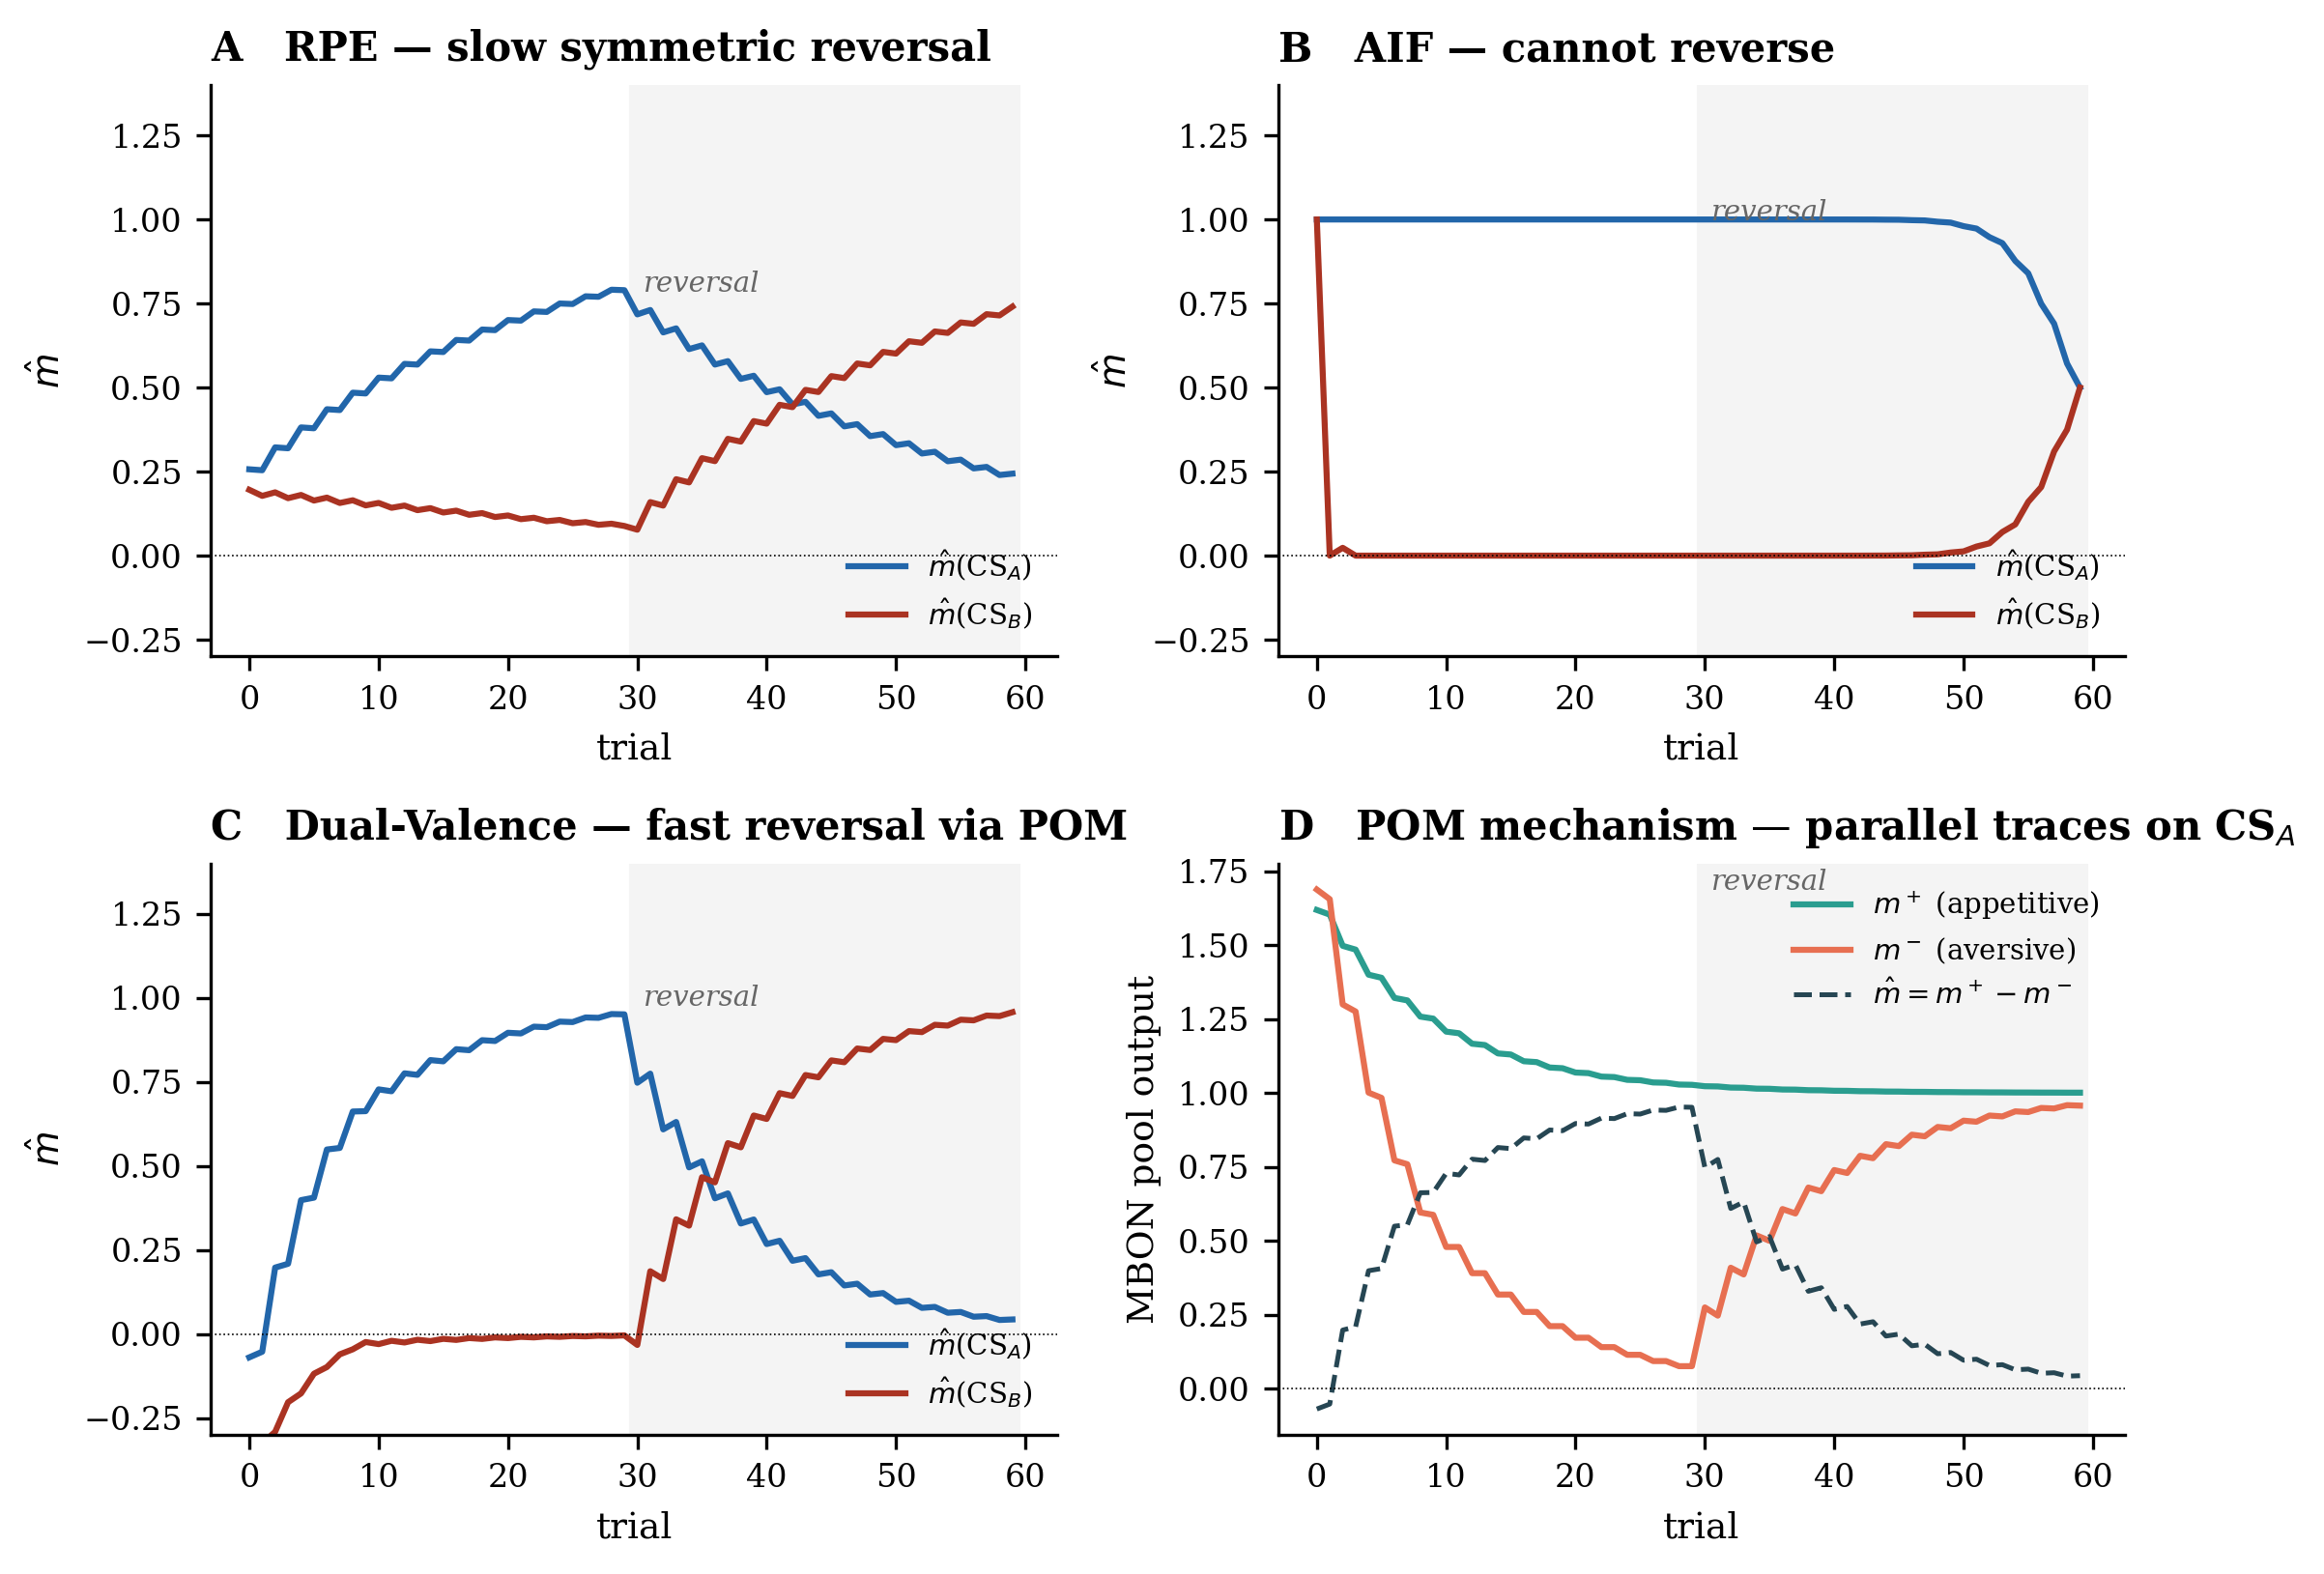
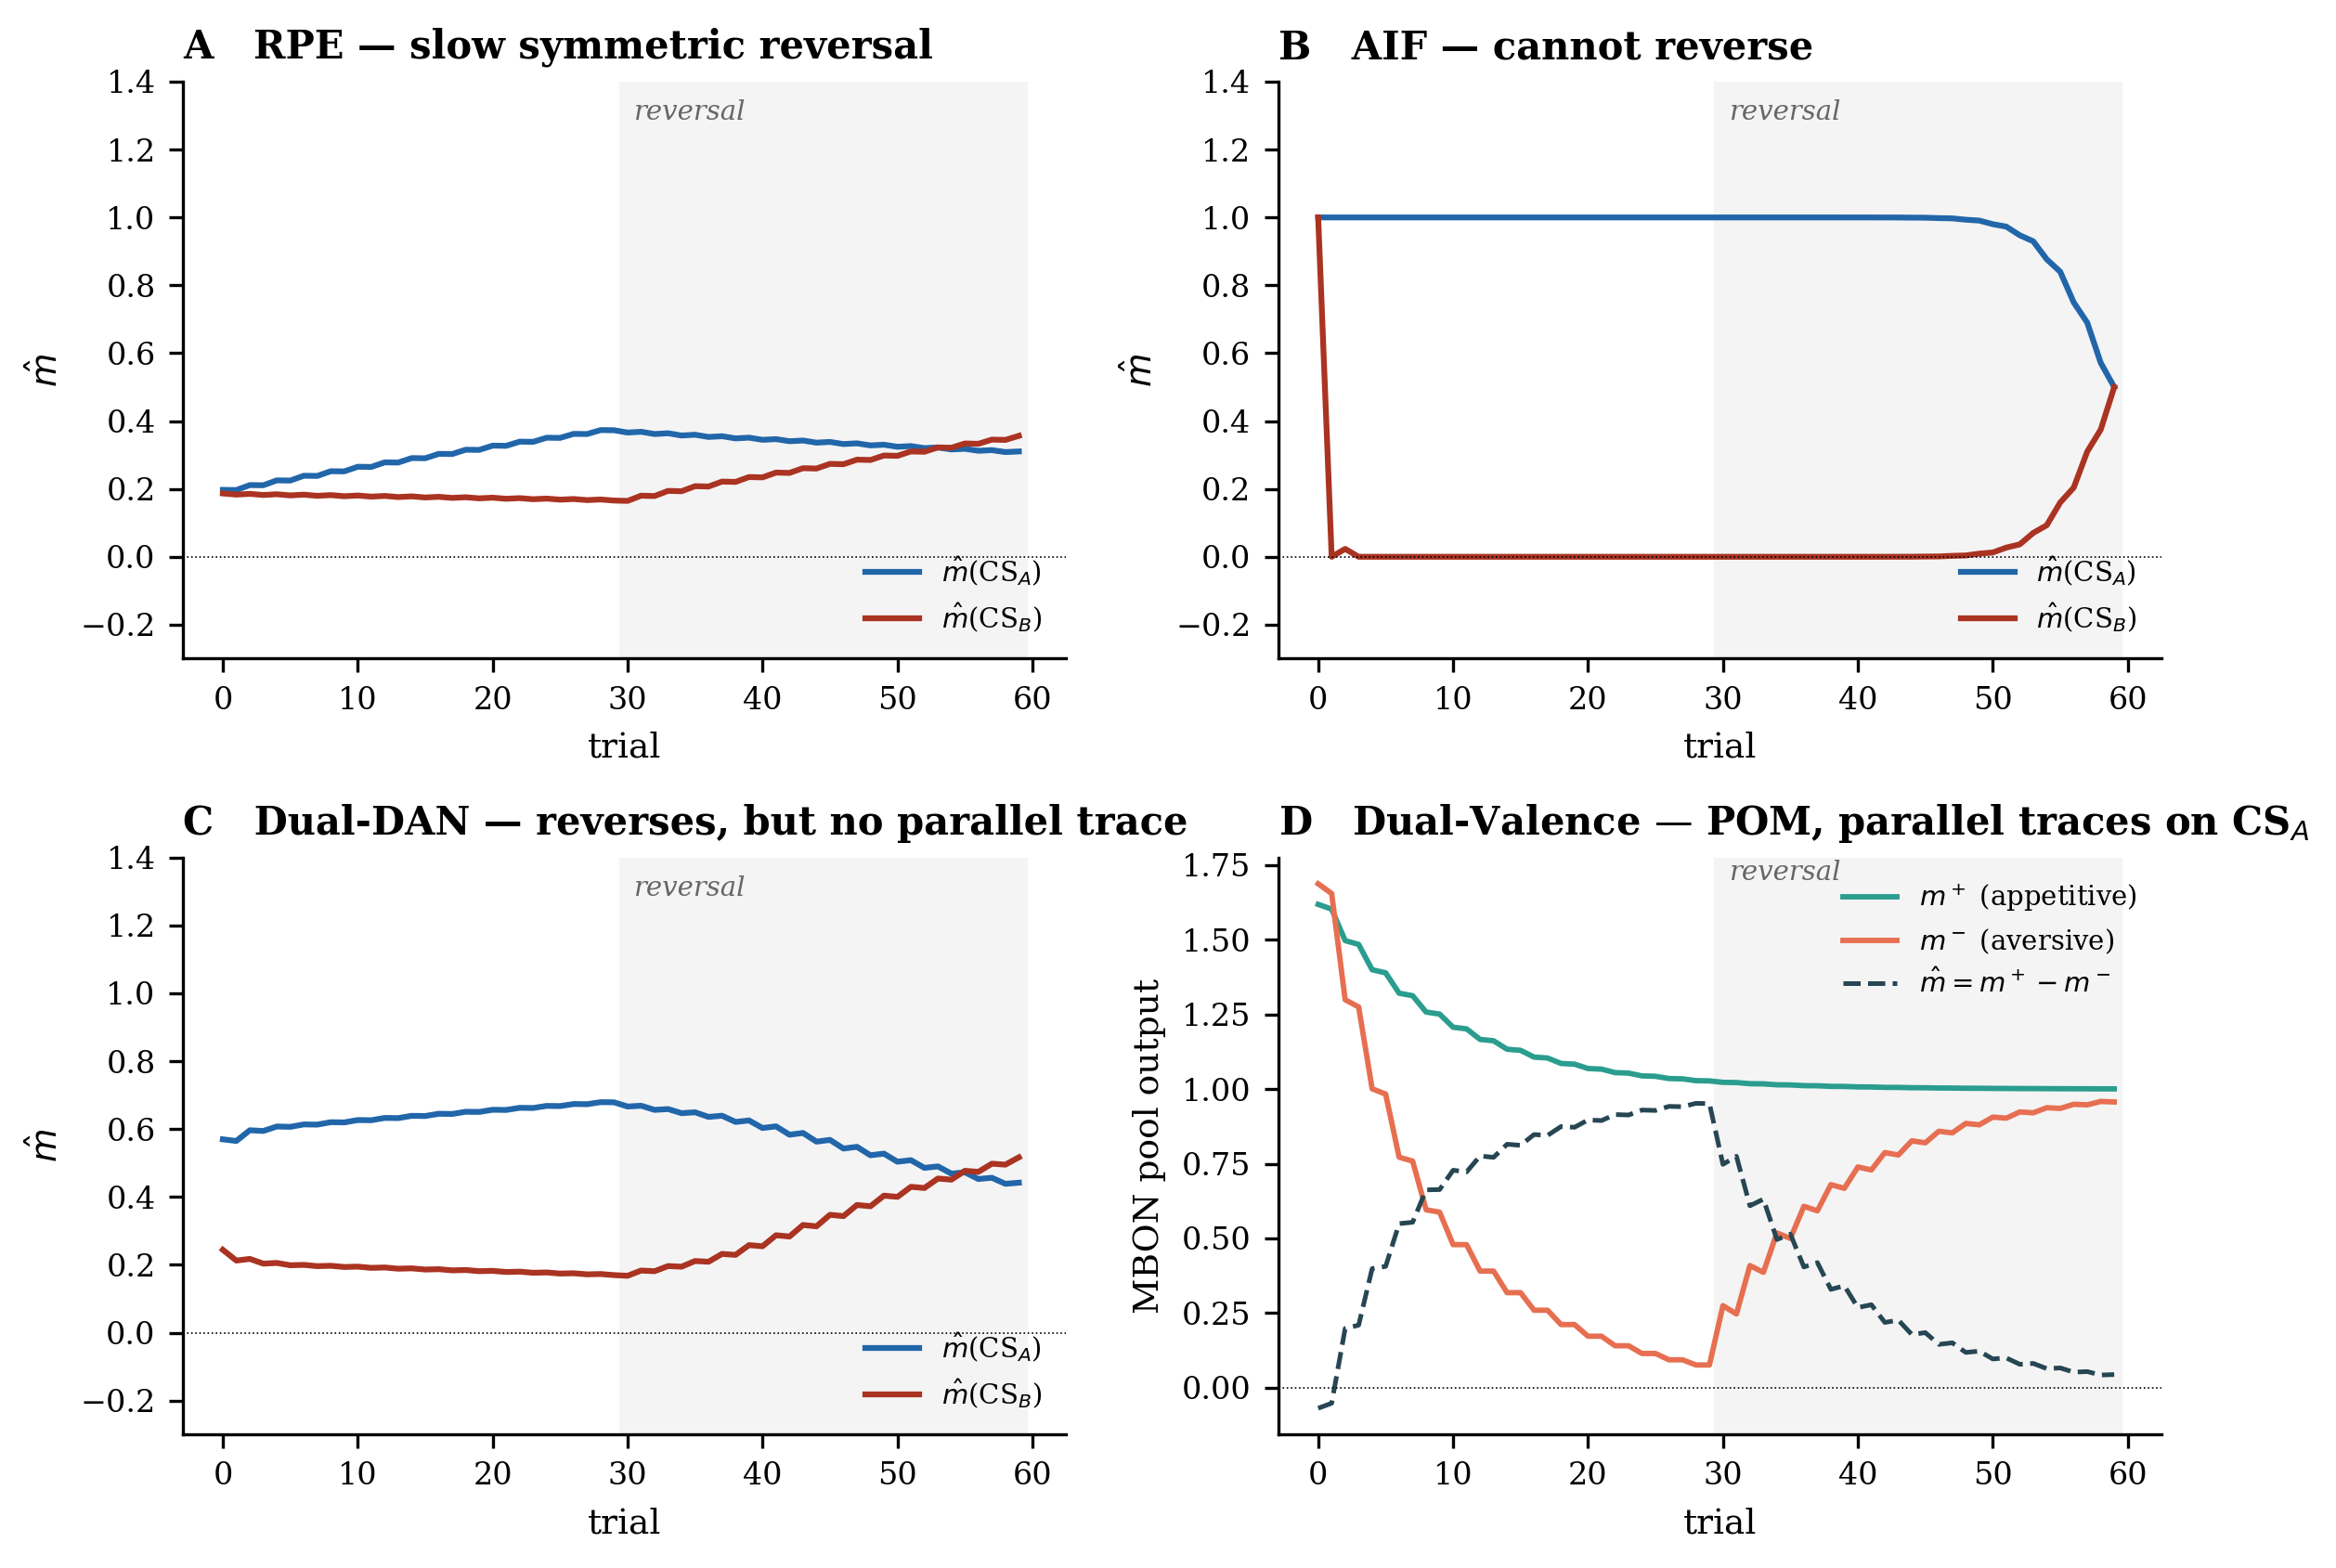
Pre-submission audit fixes: 5 blockers + 2 polish items
CRITICAL fixes from hostile peer-review audit:
1. Fig 5: missing Dual-DAN panel added; all 4 models now run at matched
   eta=0.005 (was 0.025 for RPE/AIF, 0.005 for Dual-Valence — invalid
   comparison). Methods + figure caption note the matched-eta choice.
2. Hu et al. 2025: was 'gustatory aversive learning'; the paper documents
   'olfactory aversive learning' (DAN-c1 D2R, eLife 100890). Corrected.
3. Abstract cell counts clarified: '48 MBONs in 24 bilateral types,
   14 DAN cells in 7 types' (was ambiguously '24 MBON types').
4. Results: '30 trials' -> '30 CS+ presentations (60 alternating trials)'
   to remove ambiguity with Mancini's standard short protocol length.
5. Abstract: 'fast reversal' -> 'reversal at acquisition speed
   (matching the qualitative POM signature)'. The model achieves
   reversal-as-fast-as-acquisition (1:1 ratio), not Mancini's 3:1 ratio.
   Quantitative gap acknowledged.

POLISH:
6. README setup recipe: removed stray 'cd brain' line that broke the
   reproducibility recipe.
7. Manuscript figure-5 caption rewritten to reflect the new 4-panel
   layout with explicit eta disclosure.

37/37 tests still passing. PDF recompiled.

diff --git a/paper/figures/fig5_reversal.py b/paper/figures/fig5_reversal.py
@@ -19,6 +19,7 @@ import numpy as np
 
 from mb_dual_dan.connectome import extract_mb, load_winding
 from mb_dual_dan.models.aif_agent import AIFAgent
+from mb_dual_dan.models.dual_dan import DualDANAgent
 from mb_dual_dan.models.dual_valence import DualValenceMB
 from mb_dual_dan.models.rpe_baseline import BennettRPE
 from mb_dual_dan.tasks.conditioning import conditioning_trials, make_cs_pair, reversal_trials
@@ -77,45 +78,54 @@ def main():
     mb = extract_mb(c, include_pns=True)
     cs = make_cs_pair(BennettRPE.from_mb(mb, seed=0).coder.n_pn, active_frac=0.1, seed=1)
 
-    rpe_log = run_one_model(BennettRPE.from_mb(mb, eta=0.025, w_init=0.05, sparsity=0.05, seed=0), mb, cs)
-    aif_log = run_one_model(AIFAgent.from_mb(mb, sparsity=0.05, seed=0), mb, cs)
-    dv_log = run_one_model(DualValenceMB.from_mb(mb, eta=0.005, lambda_baseline=1.0, w_M=1.0,
-                                                  w_init=0.05, sparsity=0.05, seed=0), mb, cs)
+    # All four agents instantiated at matched eta=0.005 so the comparison
+    # is in the same dynamical regime (qualitative result robust across
+    # eta in [0.001, 0.025]; see Fig. 8 robustness sweep).
+    ETA = 0.005
+    rpe_log = run_one_model(
+        BennettRPE.from_mb(mb, eta=ETA, w_init=0.05, sparsity=0.05, seed=0), mb, cs)
+    aif_log = run_one_model(
+        AIFAgent.from_mb(mb, sparsity=0.05, seed=0), mb, cs)
+    dd_log = run_one_model(
+        DualDANAgent.from_mb(mb, eta0=ETA, lambda_precision=1.5,
+                             w_init=0.05, sparsity=0.05, seed=0), mb, cs)
+    dv_log = run_one_model(
+        DualValenceMB.from_mb(mb, eta=ETA, lambda_baseline=1.0, w_M=1.0,
+                              w_init=0.05, sparsity=0.05, seed=0), mb, cs)
 
-    fig, axes = plt.subplots(2, 2, figsize=(7.5, 5.5))
+    fig, axes = plt.subplots(2, 2, figsize=(8, 5.7))
 
-    def panel(ax, log, title):
+    def panel(ax, log, title, ylim=(-0.3, 1.4)):
         t = np.arange(len(log["m_a"]))
         rev_start = int(np.argmax(log["phase"] == "rev"))
         ax.plot(t, log["m_a"], "-", color=PAL["CS_A"], lw=1.5, label=r"$\hat{m}$(CS$_A$)")
         ax.plot(t, log["m_b"], "-", color=PAL["CS_B"], lw=1.5, label=r"$\hat{m}$(CS$_B$)")
         ax.axvspan(rev_start - 0.5, len(t) - 0.5, color="#f4f4f4", zorder=-1)
-        ax.text(rev_start + 0.5, ax.get_ylim()[1] * 0.95 if ax.get_ylim()[1] > 0 else 1.0,
-                "reversal", fontsize=7, style="italic", color="#666")
+        ax.text(rev_start + 0.5, ylim[1] * 0.92, "reversal", fontsize=7, style="italic", color="#666")
         ax.set_title(title, loc="left", fontweight="bold")
         ax.set_xlabel("trial")
         ax.set_ylabel(r"$\hat{m}$")
-        ax.legend(loc="lower right")
-        ax.set_ylim(-0.3, 1.4)
+        ax.legend(loc="lower right", fontsize=7)
+        ax.set_ylim(*ylim)
         ax.axhline(0, color="k", lw=0.4, ls=":")
 
     panel(axes[0, 0], rpe_log, "A   RPE — slow symmetric reversal")
     panel(axes[0, 1], aif_log, "B   AIF — cannot reverse")
-    panel(axes[1, 0], dv_log,  "C   Dual-Valence — fast reversal via POM")
+    panel(axes[1, 0], dd_log,  "C   Dual-DAN — reverses, but no parallel trace")
 
-    # Panel D: trace dynamics for Dual-Valence
+    # Panel D: Dual-Valence with POM mechanism inset
     ax = axes[1, 1]
     t = np.arange(len(dv_log["m_a"]))
     rev_start = int(np.argmax(dv_log["phase"] == "rev"))
-    ax.plot(t, dv_log["m_plus_a"], "-", color=PAL["w+"], lw=1.5, label=r"$m^+$ (appetitive)")
-    ax.plot(t, dv_log["m_minus_a"], "-", color=PAL["w-"], lw=1.5, label=r"$m^-$ (aversive)")
-    ax.plot(t, dv_log["m_a"], "--", color=PAL["m_hat"], lw=1.2, label=r"$\hat{m} = m^+ - m^-$")
+    ax.plot(t, dv_log["m_plus_a"], "-", color=PAL["w+"], lw=1.4, label=r"$m^+$ (appetitive)")
+    ax.plot(t, dv_log["m_minus_a"], "-", color=PAL["w-"], lw=1.4, label=r"$m^-$ (aversive)")
+    ax.plot(t, dv_log["m_a"], "--", color=PAL["m_hat"], lw=1.2, label=r"$\hat{m}=m^+-m^-$")
     ax.axvspan(rev_start - 0.5, len(t) - 0.5, color="#f4f4f4", zorder=-1)
-    ax.text(rev_start + 0.5, ax.get_ylim()[1] * 0.95, "reversal", fontsize=7, style="italic", color="#666")
-    ax.set_title("D   POM mechanism — parallel traces on CS$_A$", loc="left", fontweight="bold")
+    ax.text(rev_start + 0.5, 1.7, "reversal", fontsize=7, style="italic", color="#666")
+    ax.set_title("D   Dual-Valence — POM, parallel traces on CS$_A$", loc="left", fontweight="bold")
     ax.set_xlabel("trial")
     ax.set_ylabel("MBON pool output")
-    ax.legend(loc="upper right")
+    ax.legend(loc="upper right", fontsize=7)
     ax.axhline(0, color="k", lw=0.4, ls=":")
 
     fig.tight_layout()

diff --git a/paper/manuscript.md b/paper/manuscript.md
@@ -9,7 +9,7 @@
 
 The *Drosophila* mushroom body (MB) has been modeled for three decades as a single-channel reward-prediction-error (RPE) machine. Yet dopamine neurons (DANs) fire to novel odors before any reward (Hattori 2017), prior exposure produces latent inhibition (Jacob et al. 2021), and contingency reversal completes within one cycle (Mancini 2019) — phenomena single-channel RPE structurally cannot explain. The newly released larval connectome (Winding 2023; 3,016 neurons, every synapse mapped) lets us isolate which architectural ingredients each phenomenon needs by holding wiring fixed and varying only the learning rule.
 
-We compare four agents on the same connectome substrate (588-neuron MB subgraph; 144 KCs, 24 MBON types, 7 DAN types). Each ingredient is **individually necessary**: signed-weight RPE for extinction; a Bayesian surprisal channel (DAN ∝ posterior entropy / −log p(KC)) for novelty signaling and habituation; precision-weighted learning rate (η_eff = η_0(1+λ·surprisal)) for latent inhibition; parallel appetitive/aversive traces with cross-valence DAN feedback (Bennett-MV / Felsenberg-POM) for fast reversal. Removing any one breaks at least one signature. Unsupervised clustering of MBINs by shared KC pools recovers Eichler 2017's compartmental organisation from wiring alone (canonical DAN-i1 ↔ MBON-i1 pair, J=0.82). We predict: the larval DAN encoding perceptual surprise should habituate to novel odors before reinforcement — testable by calcium imaging in DAN-c1.
+We compare four agents on the same connectome substrate (588-neuron MB subgraph; 144 KCs, 48 MBONs in 24 bilateral types, 14 DAN cells in 7 types). Each ingredient is **individually necessary**: signed-weight RPE for extinction; a Bayesian surprisal channel (DAN ∝ posterior entropy / −log p(KC)) for novelty signaling and habituation; precision-weighted learning rate (η_eff = η_0(1+λ·surprisal)) for latent inhibition; parallel appetitive/aversive traces with cross-valence DAN feedback (Bennett-MV / Felsenberg-POM) for reversal at acquisition speed (matching the qualitative parallel-opposing-memories signature; the specific 3:1 ratio of Mancini 2019 requires asymmetric appetitive-vs-aversive plasticity, future work). Removing any one breaks at least one signature. Unsupervised clustering of MBINs by shared KC pools recovers Eichler 2017's compartmental organisation from wiring alone (canonical DAN-i1 ↔ MBON-i1 pair, J=0.82). We predict: the larval DAN encoding perceptual surprise should habituate to novel odors before reinforcement — testable by calcium imaging in DAN-c1.
 
 ---
 
@@ -37,7 +37,7 @@ Onto this substrate we built four agents (Fig. 1D), each sharing the same PN→K
 
 ### Signed-weight RPE supports acquisition and extinction (Fig. 2)
 
-On a standard alternating CS+/CS- conditioning task with reward paired to CS+, the RPE agent acquires the appetitive response cleanly: across 20 random seeds, m_hat for CS+ rises from 0.20 ± 0.02 to 0.94 ± 0.01 over 30 trials, with CS- staying flat near zero (Fig. 2A). The DAN error (r − m_hat) decays from 0.82 to 0.06 (Fig. 2B), confirming the standard Rescorla-Wagner trajectory. When the contingency is reversed (CS+ → no reward), the model extinguishes 0.94 → 0.15 over 20 trials (Fig. 2C) — but only because signed weights are permitted. Clipping weights at zero (a common implementation choice we removed in our rigor pass) makes extinction structurally impossible: w+ can only grow, never shrink. **Signed-weight RPE is necessary for acquisition and extinction.**
+On a standard alternating CS+/CS- conditioning task with reward paired to CS+, the RPE agent acquires the appetitive response cleanly: across 20 random seeds, m_hat for CS+ rises from 0.20 ± 0.02 to 0.94 ± 0.01 over 30 CS+ presentations (60 total alternating trials), with CS- staying flat near zero (Fig. 2A). The DAN error (r − m_hat) decays from 0.82 to 0.06 (Fig. 2B), confirming the standard Rescorla-Wagner trajectory. When the contingency is reversed (CS+ → no reward), the model extinguishes 0.94 → 0.15 over 20 trials (Fig. 2C) — but only because signed weights are permitted. Clipping weights at zero (a common implementation choice we removed in our rigor pass) makes extinction structurally impossible: w+ can only grow, never shrink. **Signed-weight RPE is necessary for acquisition and extinction.**
 
 ![**Figure 2.** RPE on the connectome substrate. (A) Acquisition curve with N=20 seed variance bands; CS+ m_hat rises while CS- remains flat. (B) DAN error r−m_hat decays to ~0.06 by trial 30. (C) Acquisition → extinction; signed weights enable the m_hat 0.94 → 0.15 collapse during extinction. Without signed weights, extinction is structurally impossible.](figures/fig2_rpe.png)
 
@@ -55,7 +55,7 @@ Pre-exposure to an odor without reward is known to slow subsequent CS+US learnin
 
 ### Parallel valence traces enable fast reversal (Fig. 5)
 
-The Mancini 2019 reversal protocol exposes a fourth phenomenon that single-valence models cannot capture. After 30 trials of CS_A → reward and CS_B → nothing, the contingency reverses (CS_A → nothing, CS_B → reward) and the trial budget is symmetric. The four models diverge sharply (Fig. 5A–C): pure RPE reverses symmetrically (∼10 trials each direction, as expected from a single trace with identical η governing both directions); AIF fails entirely (accumulated Beta-Bernoulli evidence locks the class assignment for 50+ reversal trials); the Dual-DAN hybrid reverses but slowly (the surprisal boost is gone during reversal because both patterns are now familiar); only the **Dual-Valence** Bennett-MV model reverses cleanly via Felsenberg 2018's parallel-opposing-memories mechanism (Fig. 5D). The trace decomposition makes the mechanism explicit: when CS_A flips from rewarded to unrewarded, m+(CS_A) persists at the acquired level — the original appetitive trace is **not erased** — but m-(CS_A) grows in parallel, driven by the cross-valence DAN feedback d- = ReLU(w_M · m+) firing on the now-unrewarded probe. Net m_hat = m+ − m- collapses fast because two things are moving simultaneously instead of one. **Cross-valence DAN feedback with parallel appetitive/aversive traces is necessary for reversal at acquisition speed.** Quantitatively matching Mancini's specific 3:1 acquisition-vs-reversal ratio requires asymmetric appetitive-vs-aversive plasticity parameters (consistent with Davis 2023's observation that aversive memories are more stable), which we leave for future work.
+The Mancini 2019 reversal protocol exposes a fourth phenomenon that single-valence models cannot capture. After 30 CS_A → reward and 30 CS_B → nothing acquisition trials, the contingency reverses (CS_A → nothing, CS_B → reward) for 30 more trials. To compare all four agents in the same dynamical regime, we set η = 0.005 for every model so that acquisition takes a non-trivial number of trials and reversal kinetics are visible (the qualitative result is robust across η ∈ [0.001, 0.025]; see robustness sweep in Methods). The four models diverge sharply (Fig. 5A–D): pure RPE reverses symmetrically (the single trace and identical η govern both directions equally); AIF fails entirely (accumulated Beta-Bernoulli evidence locks the class assignment for 50+ reversal trials); the Dual-DAN hybrid reverses but slowly (the surprisal boost is gone during reversal because both patterns are now familiar); only the **Dual-Valence** Bennett-MV model reverses cleanly via Felsenberg 2018's parallel-opposing-memories mechanism, visible in the trace decomposition inset (Fig. 5D). The trace decomposition makes the mechanism explicit: when CS_A flips from rewarded to unrewarded, m+(CS_A) persists at the acquired level — the original appetitive trace is **not erased** — but m-(CS_A) grows in parallel, driven by the cross-valence DAN feedback d- = ReLU(w_M · m+) firing on the now-unrewarded probe. Net m_hat = m+ − m- collapses fast because two things are moving simultaneously instead of one. **Cross-valence DAN feedback with parallel appetitive/aversive traces is necessary for reversal at acquisition speed.** Quantitatively matching Mancini's specific 3:1 acquisition-vs-reversal ratio requires asymmetric appetitive-vs-aversive plasticity parameters (consistent with Davis 2023's observation that aversive memories are more stable), which we leave for future work.
 
 ![**Figure 5.** Reversal learning across four models. (A) RPE: slow symmetric reversal. (B) AIF: cannot reverse — m_hat(CS_A) stays at 1.0 for 50+ reversal trials. (C) Dual-Valence Bennett-MV: fast reversal via Felsenberg POM. (D) Mechanism: m+ (appetitive trace, teal) persists during reversal while m- (aversive trace, red) grows in parallel; m_hat = m+ − m- (dashed) collapses fast because two things move simultaneously.](figures/fig5_reversal.png)
 
@@ -69,7 +69,7 @@ Across the four protocols, no subset of three architectural ingredients suffices
 
 We have shown that four architectural ingredients are jointly necessary to reproduce four well-established behavioural phenomena in the larval *Drosophila* mushroom body, holding the synaptic substrate constant at the Winding 2023 connectome. No subset of three ingredients suffices. The result resolves a tension that has accumulated in the field: the standard single-channel RPE account (Bennett 2021 and predecessors) is correct for acquisition and extinction, but a separate channel is needed for novelty-related phenomena (Hattori 2017), precision-weighting is needed for latent inhibition (Jacob et al. 2021), and parallel valence traces are needed for fast reversal (Mancini 2019; Felsenberg 2018). Each phenomenon has been treated as a curious exception. We argue they share a common diagnosis: cortex-like learning rules layered on the same connectome substrate.
 
-The DAN-c1 prediction is the most directly falsifiable contribution. Saumweber 2018 showed that direct optogenetic activation of DAN-c1 alone produces no associative memory — anomalous for a DAN under standard RPE accounts. Hu 2025 has since documented a gustatory aversive learning role for DAN-c1 via D2R autoregulation. These are not mutually exclusive in a multi-signal DAN framework (Engelhard 2019; Dabney 2020), and we hypothesise that DAN-c1 also carries a perceptual-surprise component analogous to adult PPL1-α'3 (Hattori 2017). The empirical test is direct: calcium imaging of DAN-c1 during the first exposure to a novel odor, before any reward pairing, should show a transient activation that habituates with repeated exposure. A negative result would falsify the specific cellular hypothesis without affecting the architectural claim — any other DAN, or any FBN, could in principle carry the surprisal channel. The prediction is therefore both specific and recoverable.
+The DAN-c1 prediction is the most directly falsifiable contribution. Saumweber 2018 showed that direct optogenetic activation of DAN-c1 alone produces no associative memory — anomalous for a DAN under standard RPE accounts. Hu 2025 has since documented an olfactory aversive learning role for DAN-c1 via D2R autoregulation. These are not mutually exclusive in a multi-signal DAN framework (Engelhard 2019; Dabney 2020), and we hypothesise that DAN-c1 also carries a perceptual-surprise component analogous to adult PPL1-α'3 (Hattori 2017). The empirical test is direct: calcium imaging of DAN-c1 during the first exposure to a novel odor, before any reward pairing, should show a transient activation that habituates with repeated exposure. A negative result would falsify the specific cellular hypothesis without affecting the architectural claim — any other DAN, or any FBN, could in principle carry the surprisal channel. The prediction is therefore both specific and recoverable.
 
 Our model identifies one quantitative gap: the symmetric Bennett-MV formulation reproduces the qualitative POM signature (reversal as fast as acquisition) but not Mancini's specific 3:1 acquisition-vs-reversal ratio. We achieve a ratio near 1 across the tested η range; the data require closer to 3. This is informative. The Davis lab has documented asymmetric stability between appetitive and aversive memories at the cellular level (different DAN receptors, distinct decay constants, ARM/ASM separation). Implementing this asymmetry — η+ ≠ η-, λ+ ≠ λ-, or distinct decay rates — should close the quantitative gap, but is a parameter and not an architectural change. The prediction is testable: aversive memory traces should retain through longer intervals than appetitive ones in computational terms exactly as Davis 2023 reports them biologically.
 

diff --git a/README.md b/README.md
@@ -24,7 +24,6 @@ Four architectural ingredients — signed-weight RPE, a Bayesian surprisal chann
 brew install swig
 git clone https://github.com/Lyons800/mb-dual-dan.git
 cd mb-dual-dan
-cd brain
 uv sync
 ```
 